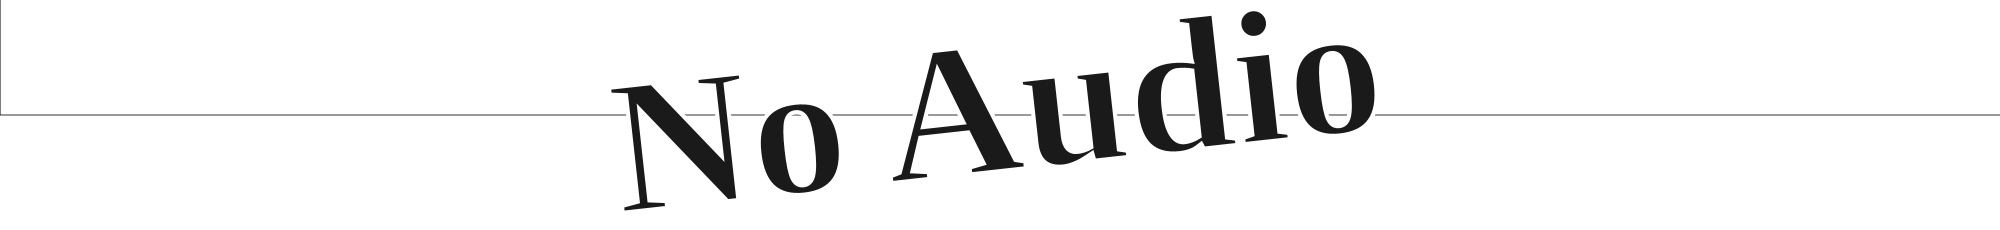
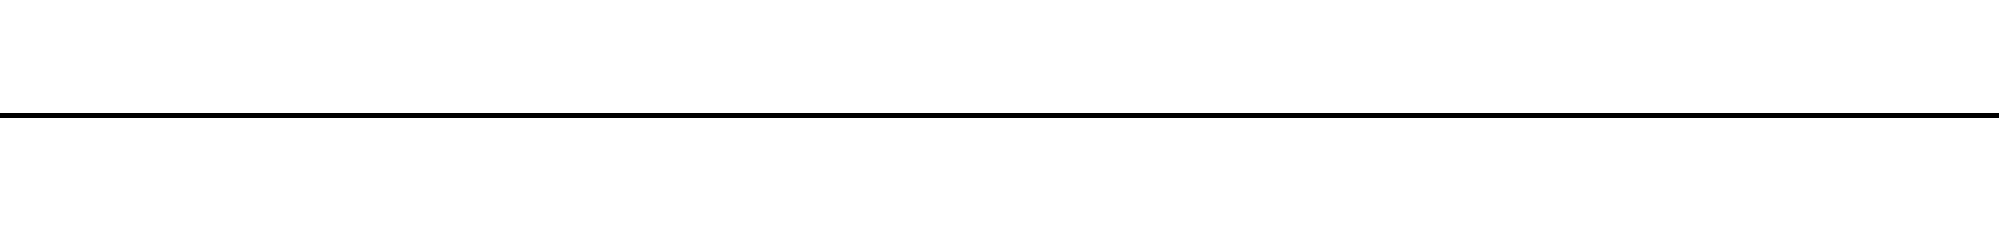
New placeholder for no audio tracks
Text is superfluos, just show  a flatline

Changed region(s): [[0.0, 0.0609, 1.0, 0.913]]

diff --git a/src/main/TrackSelection.tsx b/src/main/TrackSelection.tsx
@@ -35,13 +35,13 @@ const TrackSelection: React.FC = () => {
   const dispatch = useAppDispatch();
 
   // Generate list of tracks
-  const tracks: Track[] = useAppSelector(selectVideos);
+  const tracks = useAppSelector(selectVideos);
   const enabledCount = tracks.reduce(
     (memo: number, track: Track) => memo + !!track.video_stream.enabled + !!track.audio_stream.enabled,
     0
   );
   const images = useAppSelector(selectWaveformImages);
-  const customizedTrackSelection: boolean = useAppSelector(selectCustomizedTrackSelection);
+  const customizedTrackSelection = useAppSelector(selectCustomizedTrackSelection);
 
   const videoTrackItems: JSX.Element[] = tracks.map(
     (track: Track) => (
